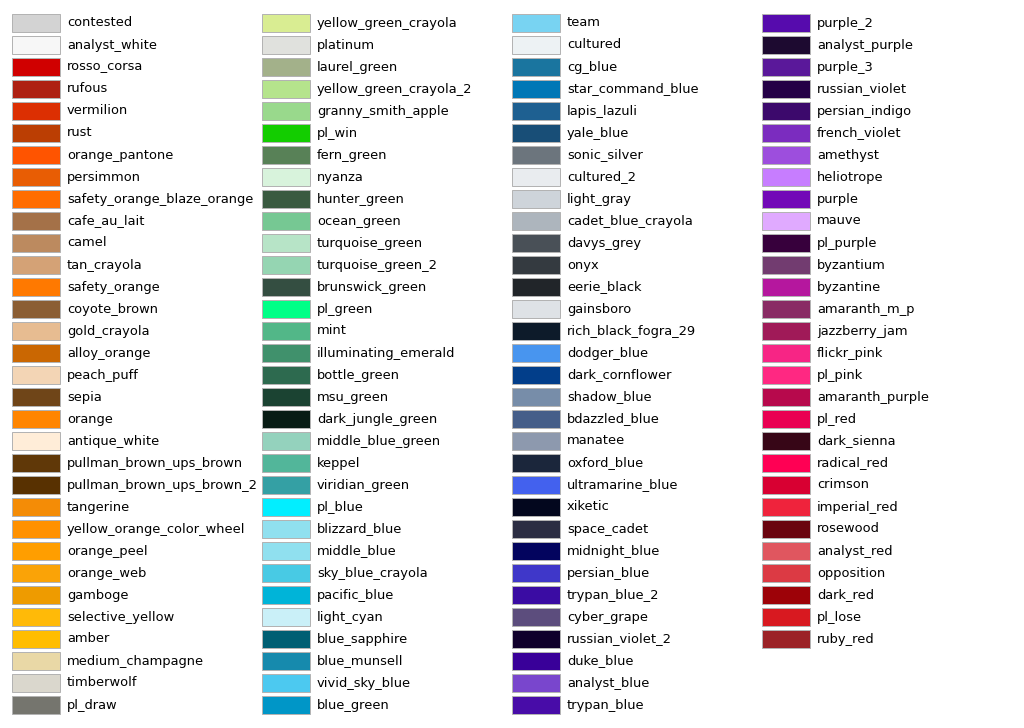
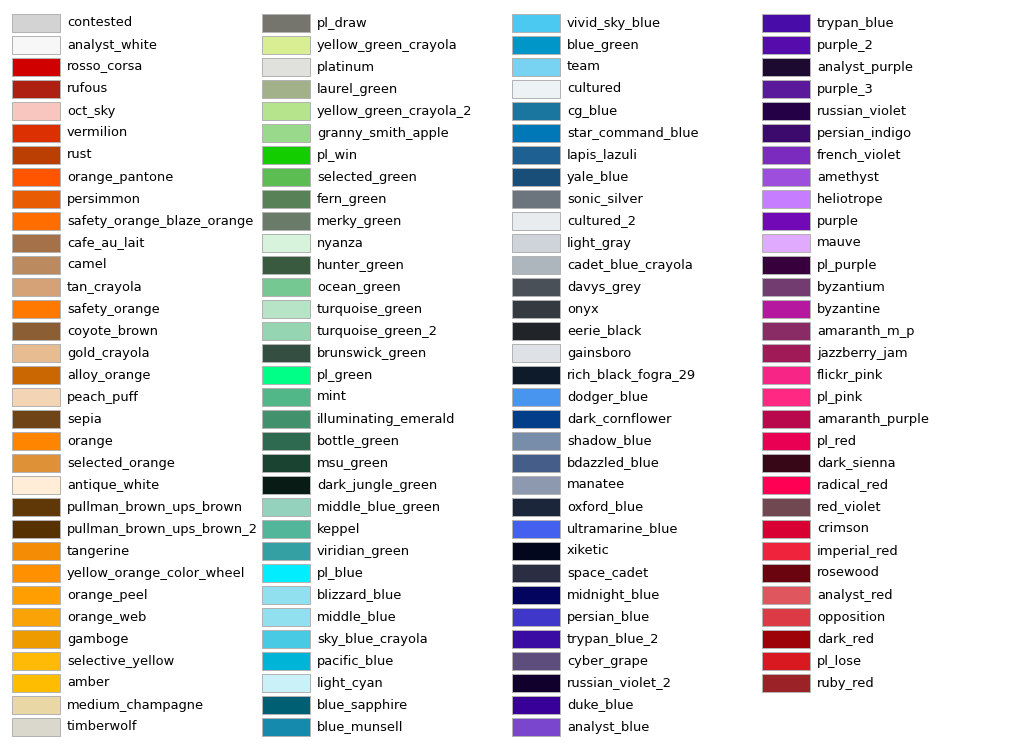
New colormaps

Changed region(s): [[0.0, 0.0, 0.4688, 0.9973], [0.5, 0.0, 0.6875, 0.9973], [0.7188, 0.0302, 0.9062, 0.9368]]

diff --git a/scripts/gen_readme.py b/scripts/gen_readme.py
@@ -1,10 +1,17 @@
+import sys
+import os
+current = os.path.dirname(os.path.realpath(__file__))
+parent = os.path.dirname(current)
+sys.path.insert(0, parent + '/matplotlib_colors')
+from colors import colors, color_names
+from colormaps import register_cmaps, colormap_names
+
 import math
 import matplotlib as mpl
 import matplotlib.pyplot as plt
 import matplotlib.colors as mcolors
 from matplotlib.patches import Rectangle
 import matplotlib.patches as mpatch
-from matplotlib_colors import register_cmaps, colormap_names, colors, color_names
 
 register_cmaps()
 
@@ -58,8 +65,9 @@ def plot_colortable(path, sort_colors=True, emptycols=0):
             Rectangle(xy=(swatch_start_x, y-9), width=swatch_width,
                       height=18, facecolor=colors[name], edgecolor='0.7')
         )
-        
-    plt.savefig(path)
+    
+    if path is not None:
+        plt.savefig(path)
 
 def plot_colors(path: str):
     fig = plt.figure(figsize=(9, 5))
@@ -97,13 +105,14 @@ def plot_colors(path: str):
     ax.set_ylim(n_rows, -1)
     ax.axis('off')
 
-    plt.savefig(path)
+    if path is not None:
+        plt.savefig(path)
 
 
 def _colors():
     path = 'img/colors.png'
     plot_colortable(path)
-    return f'## Colors\n\n<p align="center"><img src="/{path}"></p>'
+    return f'## Colors\n\n<p align="center"><img src="../{path}"></p>'
 
 
 def plot_cmaps(path: str):
@@ -134,13 +143,14 @@ def plot_cmaps(path: str):
                     plt.tight_layout()
             idx += 1
 
-    plt.savefig(path)
+    if path is not None:
+        plt.savefig(path)
 
 
 def colormaps():
     path = 'img/colormaps.png'
     plot_cmaps(path)
-    return f'## Colormaps\n\n<p align="center"><img src="/{path}"></p>'
+    return f'## Colormaps\n\n<p align="center"><img src="../{path}"></p>'
 
 
 def source():

diff --git a/matplotlib_colors/colormaps.py b/matplotlib_colors/colormaps.py
@@ -10,6 +10,10 @@ premier_league = mcolors.ListedColormap([
     colors['pl_pink'], colors['pl_blue'], colors['pl_green']])
 team = mcolors.ListedColormap([
     colors['opposition'], colors['contested'], colors['team']])
+damp = mcolors.ListedColormap([
+    colors['red_violet'], colors['oct_sky'], colors['merky_green']])
+selected = mcolors.ListedColormap([
+    colors['selected_orange'], colors['selected_green']])
 analyst = mcolors.ListedColormap([
     colors['analyst_red'], colors['analyst_white'], colors['analyst_blue']])
 vibrant = mcolors.ListedColormap([
@@ -48,14 +52,14 @@ orange_purple = mcolors.ListedColormap(
     [colors['safety_orange_blaze_orange'], colors['safety_orange'], colors['orange'],
      colors['yellow_orange_color_wheel'], colors['orange_peel'], colors['russian_violet'],
      colors['persian_indigo'], colors['purple'], colors['french_violet'], colors['amethyst']])
-space_cadet = mcolors.ListedColormap(
+go_kart = mcolors.ListedColormap(
     [colors['space_cadet'], colors['manatee'], colors['cultured'],
      colors['imperial_red'], colors['crimson']])
 astro = mcolors.ListedColormap(
     [colors['flickr_pink'], colors['byzantine'], colors['purple'], colors['purple_2'], 
      colors['trypan_blue'], colors['trypan_blue_2'], colors['persian_blue'], 
      colors['ultramarine_blue'], colors['dodger_blue'], colors['vivid_sky_blue']])
-skin = mcolors.ListedColormap(
+human = mcolors.ListedColormap(
     [colors['antique_white'], colors['peach_puff'], colors['gold_crayola'],
      colors['tan_crayola'], colors['camel'], colors['cafe_au_lait'],
      colors['coyote_brown'], colors['sepia'], colors['pullman_brown_ups_brown'],

diff --git a/scripts/demo.py b/scripts/demo.py
@@ -1,30 +1,5 @@
-import matplotlib as mpl
 import matplotlib.pyplot as plt
-from matplotlib_colors import register_cmaps, colormap_names
+from gen_readme import plot_cmaps
 
-register_cmaps()
-
-
-def plot_cmaps():
-    N_ROWS, N_COLS = 8, 4 # 13, 13 <-- for all in one figure 
-    HEIGHT, WIDTH = 9, 16
-            
-    _, axes = plt.subplots(N_ROWS, N_COLS, figsize=(WIDTH, HEIGHT))
-    
-    idx = 0
-    for row in range(N_ROWS):
-        for col in range(N_COLS):
-            ax = axes[row, col]
-            cmap_id = colormap_names[idx]
-            mpl.colorbar.ColorbarBase(ax, cmap=cmap_id, orientation='horizontal')
-            ax.set_title(cmap_id, fontsize=8)
-            ax.tick_params(left=False, right=False, labelleft=False, 
-                           labelbottom=False, bottom=False)
-            
-            if idx >= len(colormap_names) - 1:
-                plt.tight_layout()
-                plt.show()
-                return
-            idx += 1
-
-plot_cmaps()
+plot_cmaps(None)
+plt.show()

diff --git a/matplotlib_colors/colors.py b/matplotlib_colors/colors.py
@@ -167,6 +167,13 @@ cg_blue = [26, 117, 159]
 lapis_lazuli = [30, 96, 145]
 yale_blue = [24, 78, 119]
 
+# Other
+merky_green = [106, 123, 106]
+oct_sky = [248, 197, 191]
+red_violet = [112, 72, 82]
+
+selected_orange = [223, 145, 55]
+selected_green = [92, 189, 83]
 
 colors = {var: list(map(lambda x: x/255, eval(var))) 
           for var in dir() 

diff --git a/setup.py b/setup.py
@@ -4,7 +4,7 @@ long_description = open("README.md").read()
 
 setup(
     name="matplotlib-colors",
-    version="1.0.15",
+    version="1.0.16",
     author="Tom Draper",
     author_email="tomjdraper1@gmail.com",
     license="MIT",

diff --git a/matplotlib_colors/README.md b/matplotlib_colors/README.md
@@ -2,11 +2,11 @@
 
 ## Colors
 
-<p align="center"><img src="/img/colors.png"></p>
+<p align="center"><img src="../img/colors.png"></p>
 
 ## Colormaps
 
-<p align="center"><img src="/img/colormaps.png"></p>
+<p align="center"><img src="../img/colormaps.png"></p>
 
 ## Source
 
